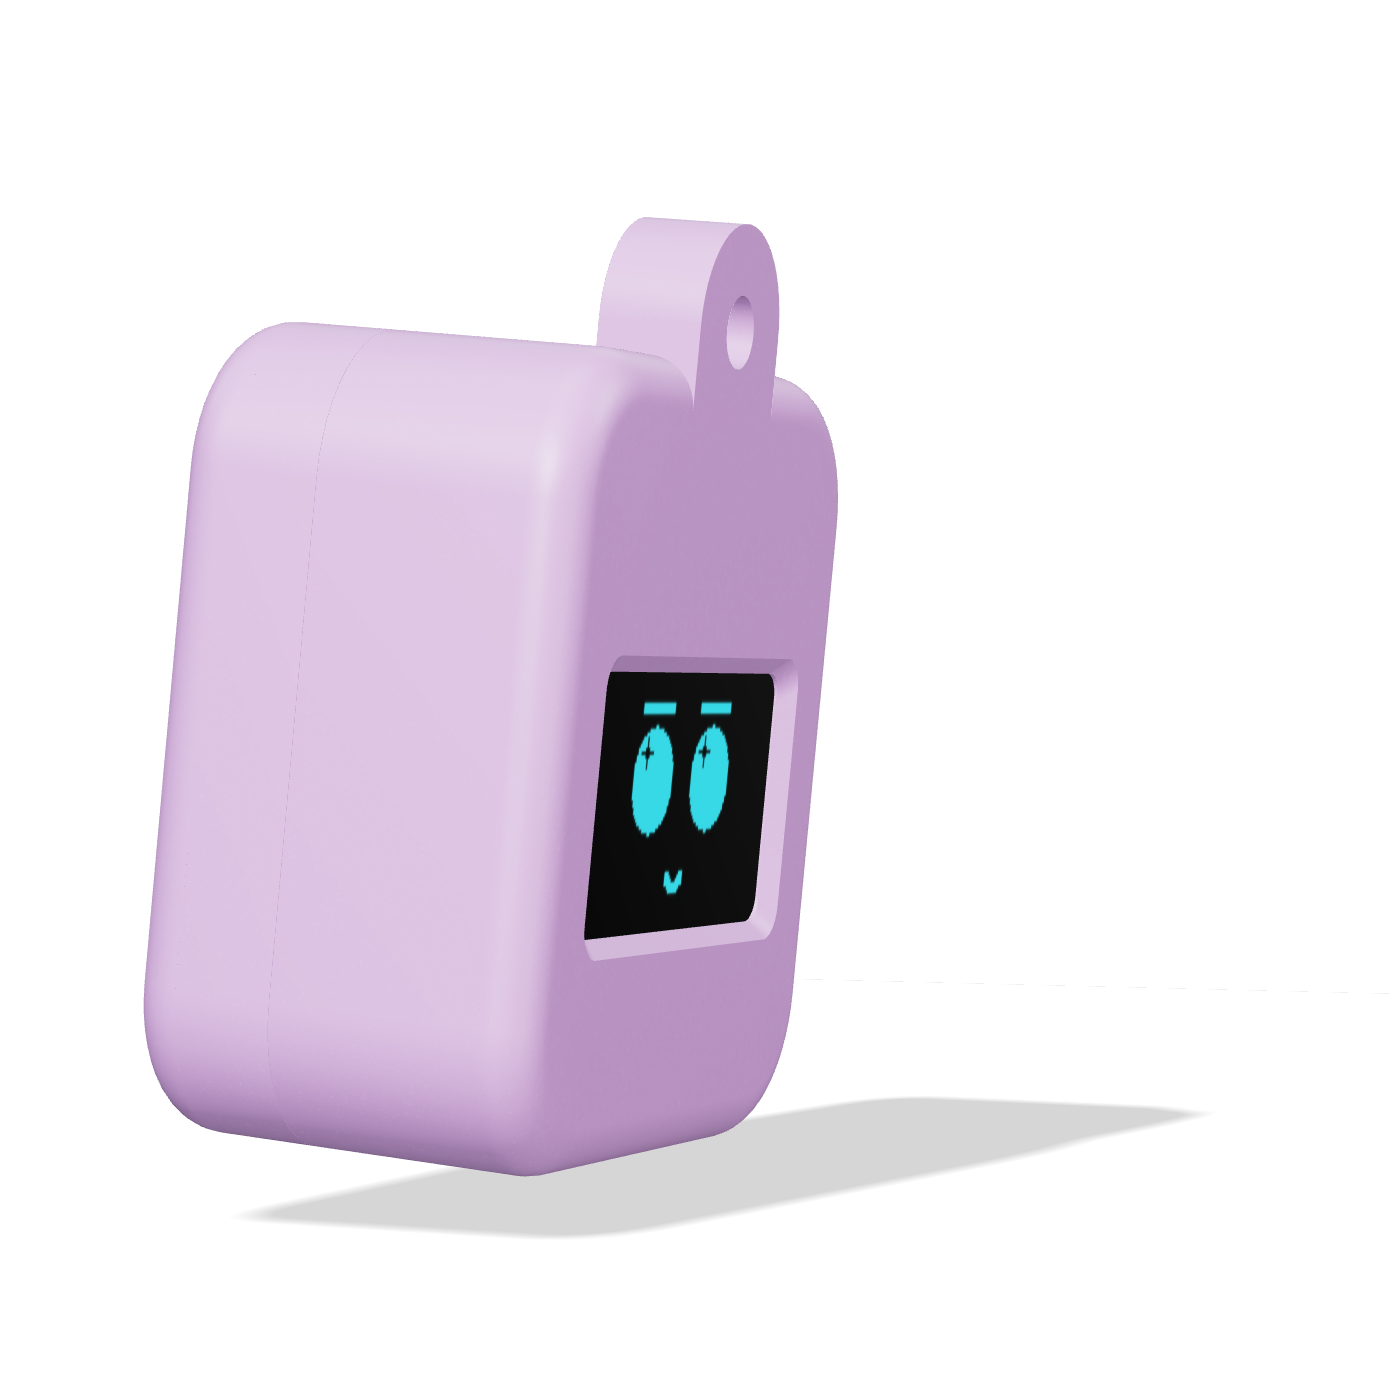
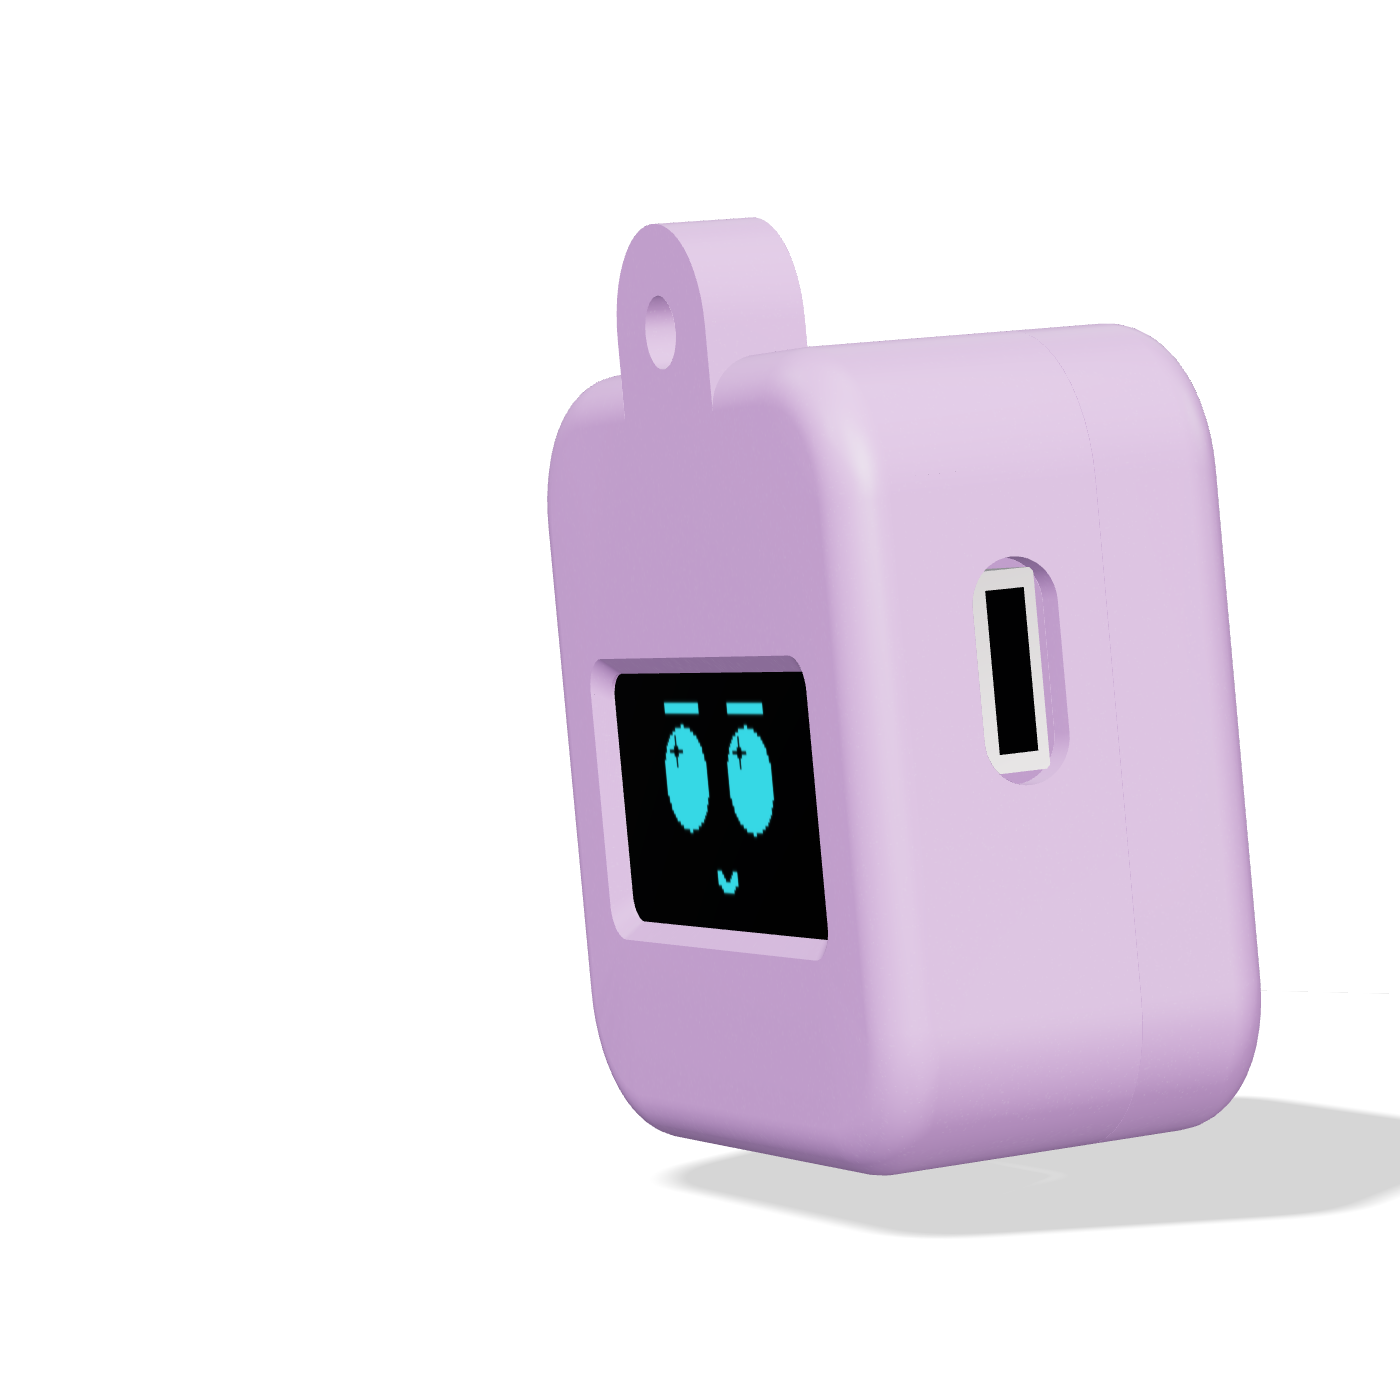
Renders: show the USB-C side from the right angle
The side render faced the wrong way: it showed the face squeezed on one
edge and no port. It now looks at the +X side with the opening, and the
XIAO's USB-C socket is modelled inside it.

Claude-Session: https://claude.ai/code/session_01XUVNECfTewFRAKhgmUk7bj

diff --git a/web/scripts/render-case.html b/web/scripts/render-case.html
@@ -125,6 +125,14 @@ screen.position.set(0, SCREEN_Y, -0.85);
 lumi.add(screen);
 scene.add(lumi);
 
+// The XIAO's USB-C receptacle behind the side opening (lumi_case.scad: +X end, y = xiao_y, z = usb_z).
+const usbGeo = new THREE.BoxGeometry(7.4, 8.9, 3.2);
+const usb = new THREE.Mesh(usbGeo, new THREE.MeshPhysicalMaterial({ color: 0xc9ccd2, metalness: 1, roughness: 0.3 }));
+usb.position.set(17.5 - 1.4 - 3.4, 3.5, -7.9);
+const usbMouth = new THREE.Mesh(new THREE.BoxGeometry(0.02, 7.2, 1.9), new THREE.MeshBasicMaterial({ color: 0x0b0b0e }));
+usbMouth.position.set(17.5 - 1.4 - 3.4 + 3.7 + 0.21, 3.5, -7.9); // just proud of the socket face
+lumi.add(usb, usbMouth);
+
 // A keyring through the bail, for the "on your keys" shot.
 const ring = new THREE.Mesh(new THREE.TorusGeometry(11, 0.9, 32, 128),
   new THREE.MeshPhysicalMaterial({ color: 0xd9dade, metalness: 1, roughness: 0.18 }));
